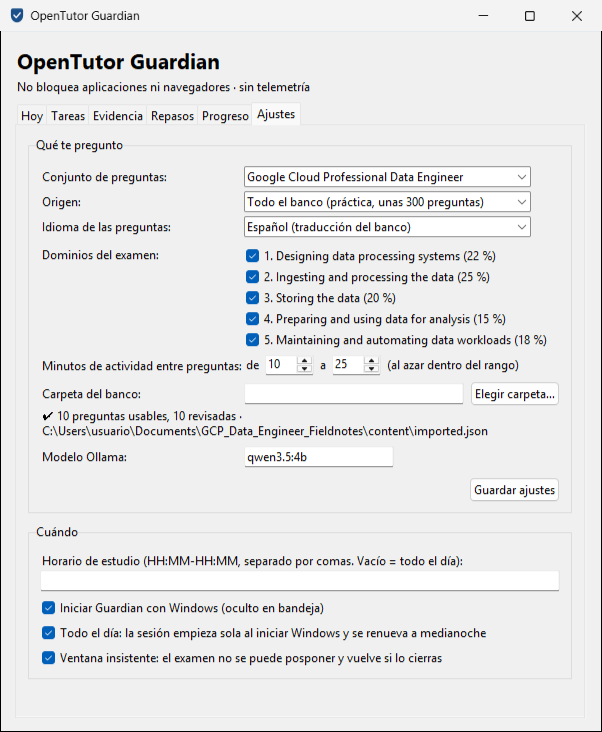
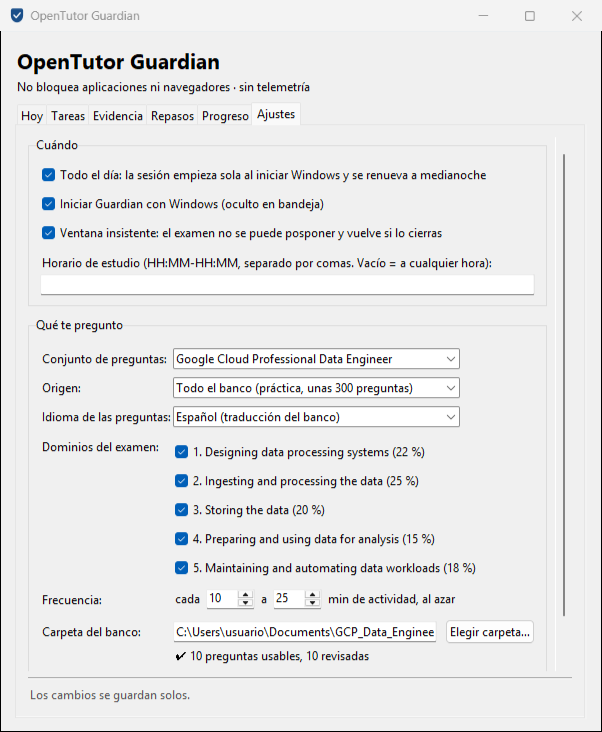
docs: regenerate the gallery for the new Hoy, Ajustes and quiz
The gallery script follows the changes of #27: the wait reason lives in
the Hoy headline, and the bank folder found by itself is shown in its
field, with a neutral path in the versioned gallery.

diff --git a/scripts/gallery.py b/scripts/gallery.py
@@ -219,9 +219,10 @@ def run(out: Path, bank: Path | None) -> list[tuple[str, str, str]]:
     os.environ["GUARDIAN_GCP_BANK"] = str(data / "no-bank")  # first run: no bank found yet
 
     from guardian import desktop, integrations
+    from guardian.i18n import t
     from guardian.questions import get_questions
     from guardian.quiz_window import QuizWindow
-    from guardian.settings_ui import SET_TOPICS, quiz_mode
+    from guardian.settings_ui import SET_TOPICS, bank_folder, quiz_mode
 
     tk.Misc.focus_force = lambda self: None  # the gallery never steals focus from the person working
     toplevel_init = tk.Toplevel.__init__
@@ -283,11 +284,19 @@ def run(out: Path, bank: Path | None) -> list[tuple[str, str, str]]:
         ui.start_label.set(ui._start_text())
         ui._start()
         ui._refresh_health()
-        ui.question_panel._refresh_bank()
-        ui.question_panel._render_domains()
-        if bank is None:  # the temp path holds the Windows user name and changes on every run
-            text = ui.question_panel.bank_text.get()
-            ui.question_panel.bank_text.set(text.replace(str(data.resolve()), NEUTRAL_BANK_PARENT))
+        panel = ui.question_panel
+        panel._refresh_bank()
+        panel._render_domains()
+        # The field shows the folder found by itself. The temp path holds the Windows user name and
+        # changes on every run, so the versioned gallery shows a neutral one.
+        shown = bank_folder("")
+        if bank is None:
+            shown = shown.replace(str(data.resolve()), NEUTRAL_BANK_PARENT)
+        panel.found_folder = shown
+        panel.bank_var.set(shown)
+        if panel.save_job is not None:  # showing the folder is not a change to save
+            panel.frame.after_cancel(panel.save_job)
+            panel.save_job = None
         ui.status.set("")
         shoot(root, "02-today-all-day", "Hoy, studying all day", "All-day session, counter running.")
 
@@ -307,13 +316,13 @@ def run(out: Path, bank: Path | None) -> list[tuple[str, str, str]]:
         ui.pause_until = desktop._EPOCH
 
         ui.pending = True
-        ui.status.set("Examen pendiente en espera: pantalla completa")
+        ui.wait_reason = t("panel.wait_fullscreen")
         shoot(
             root, "05-today-pending-wait", "Hoy, quiz waiting", "A quiz is due but a full-screen app is open."
         )
 
         tab(5)
-        shoot(root, "06-settings", "Ajustes", "Qué te pregunto, the bank folder, and Cuándo.")
+        shoot(root, "06-settings", "Ajustes", "Cuándo first, then Qué te pregunto. Changes save themselves.")
 
         settings = ui.settings
         topic = SET_TOPICS[settings.question_set]

diff --git a/docs/gallery/README.md b/docs/gallery/README.md
@@ -43,7 +43,7 @@ A quiz is due but a full-screen app is open.
 
 ## Ajustes
 
-Qué te pregunto, the bank folder, and Cuándo.
+Cuándo first, then Qué te pregunto. Changes save themselves.
 
 ![Ajustes](06-settings.png)
 
